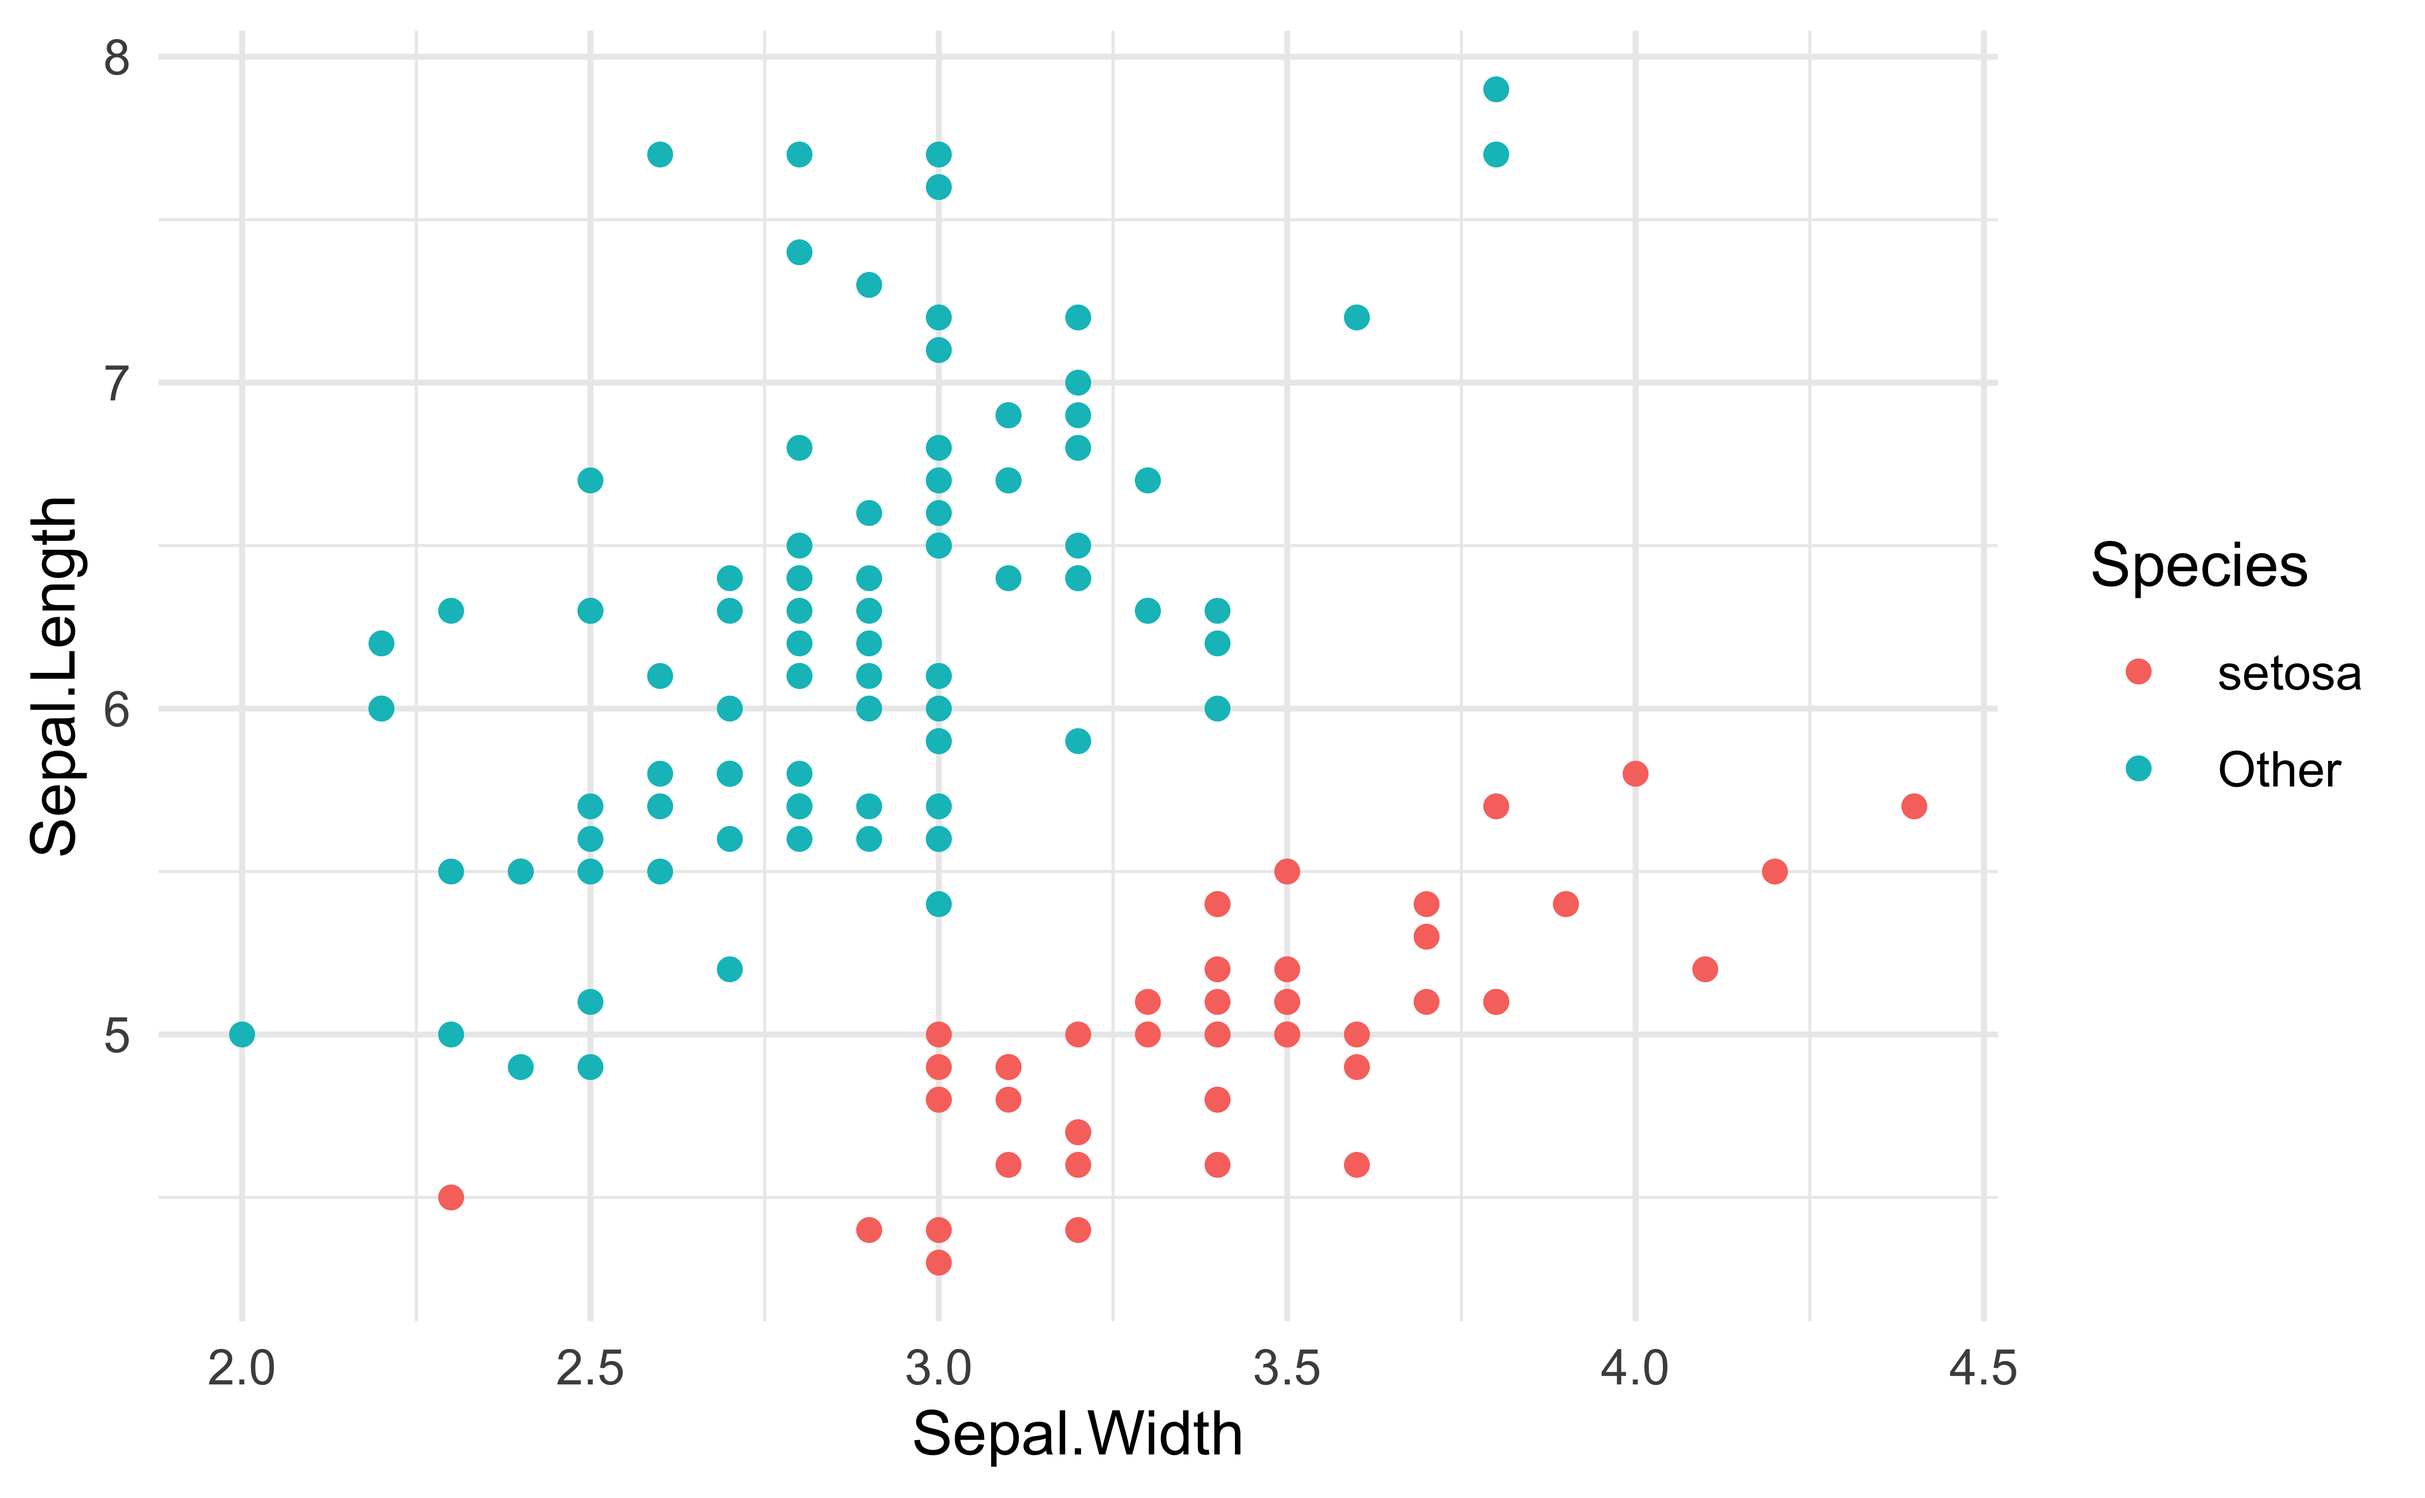
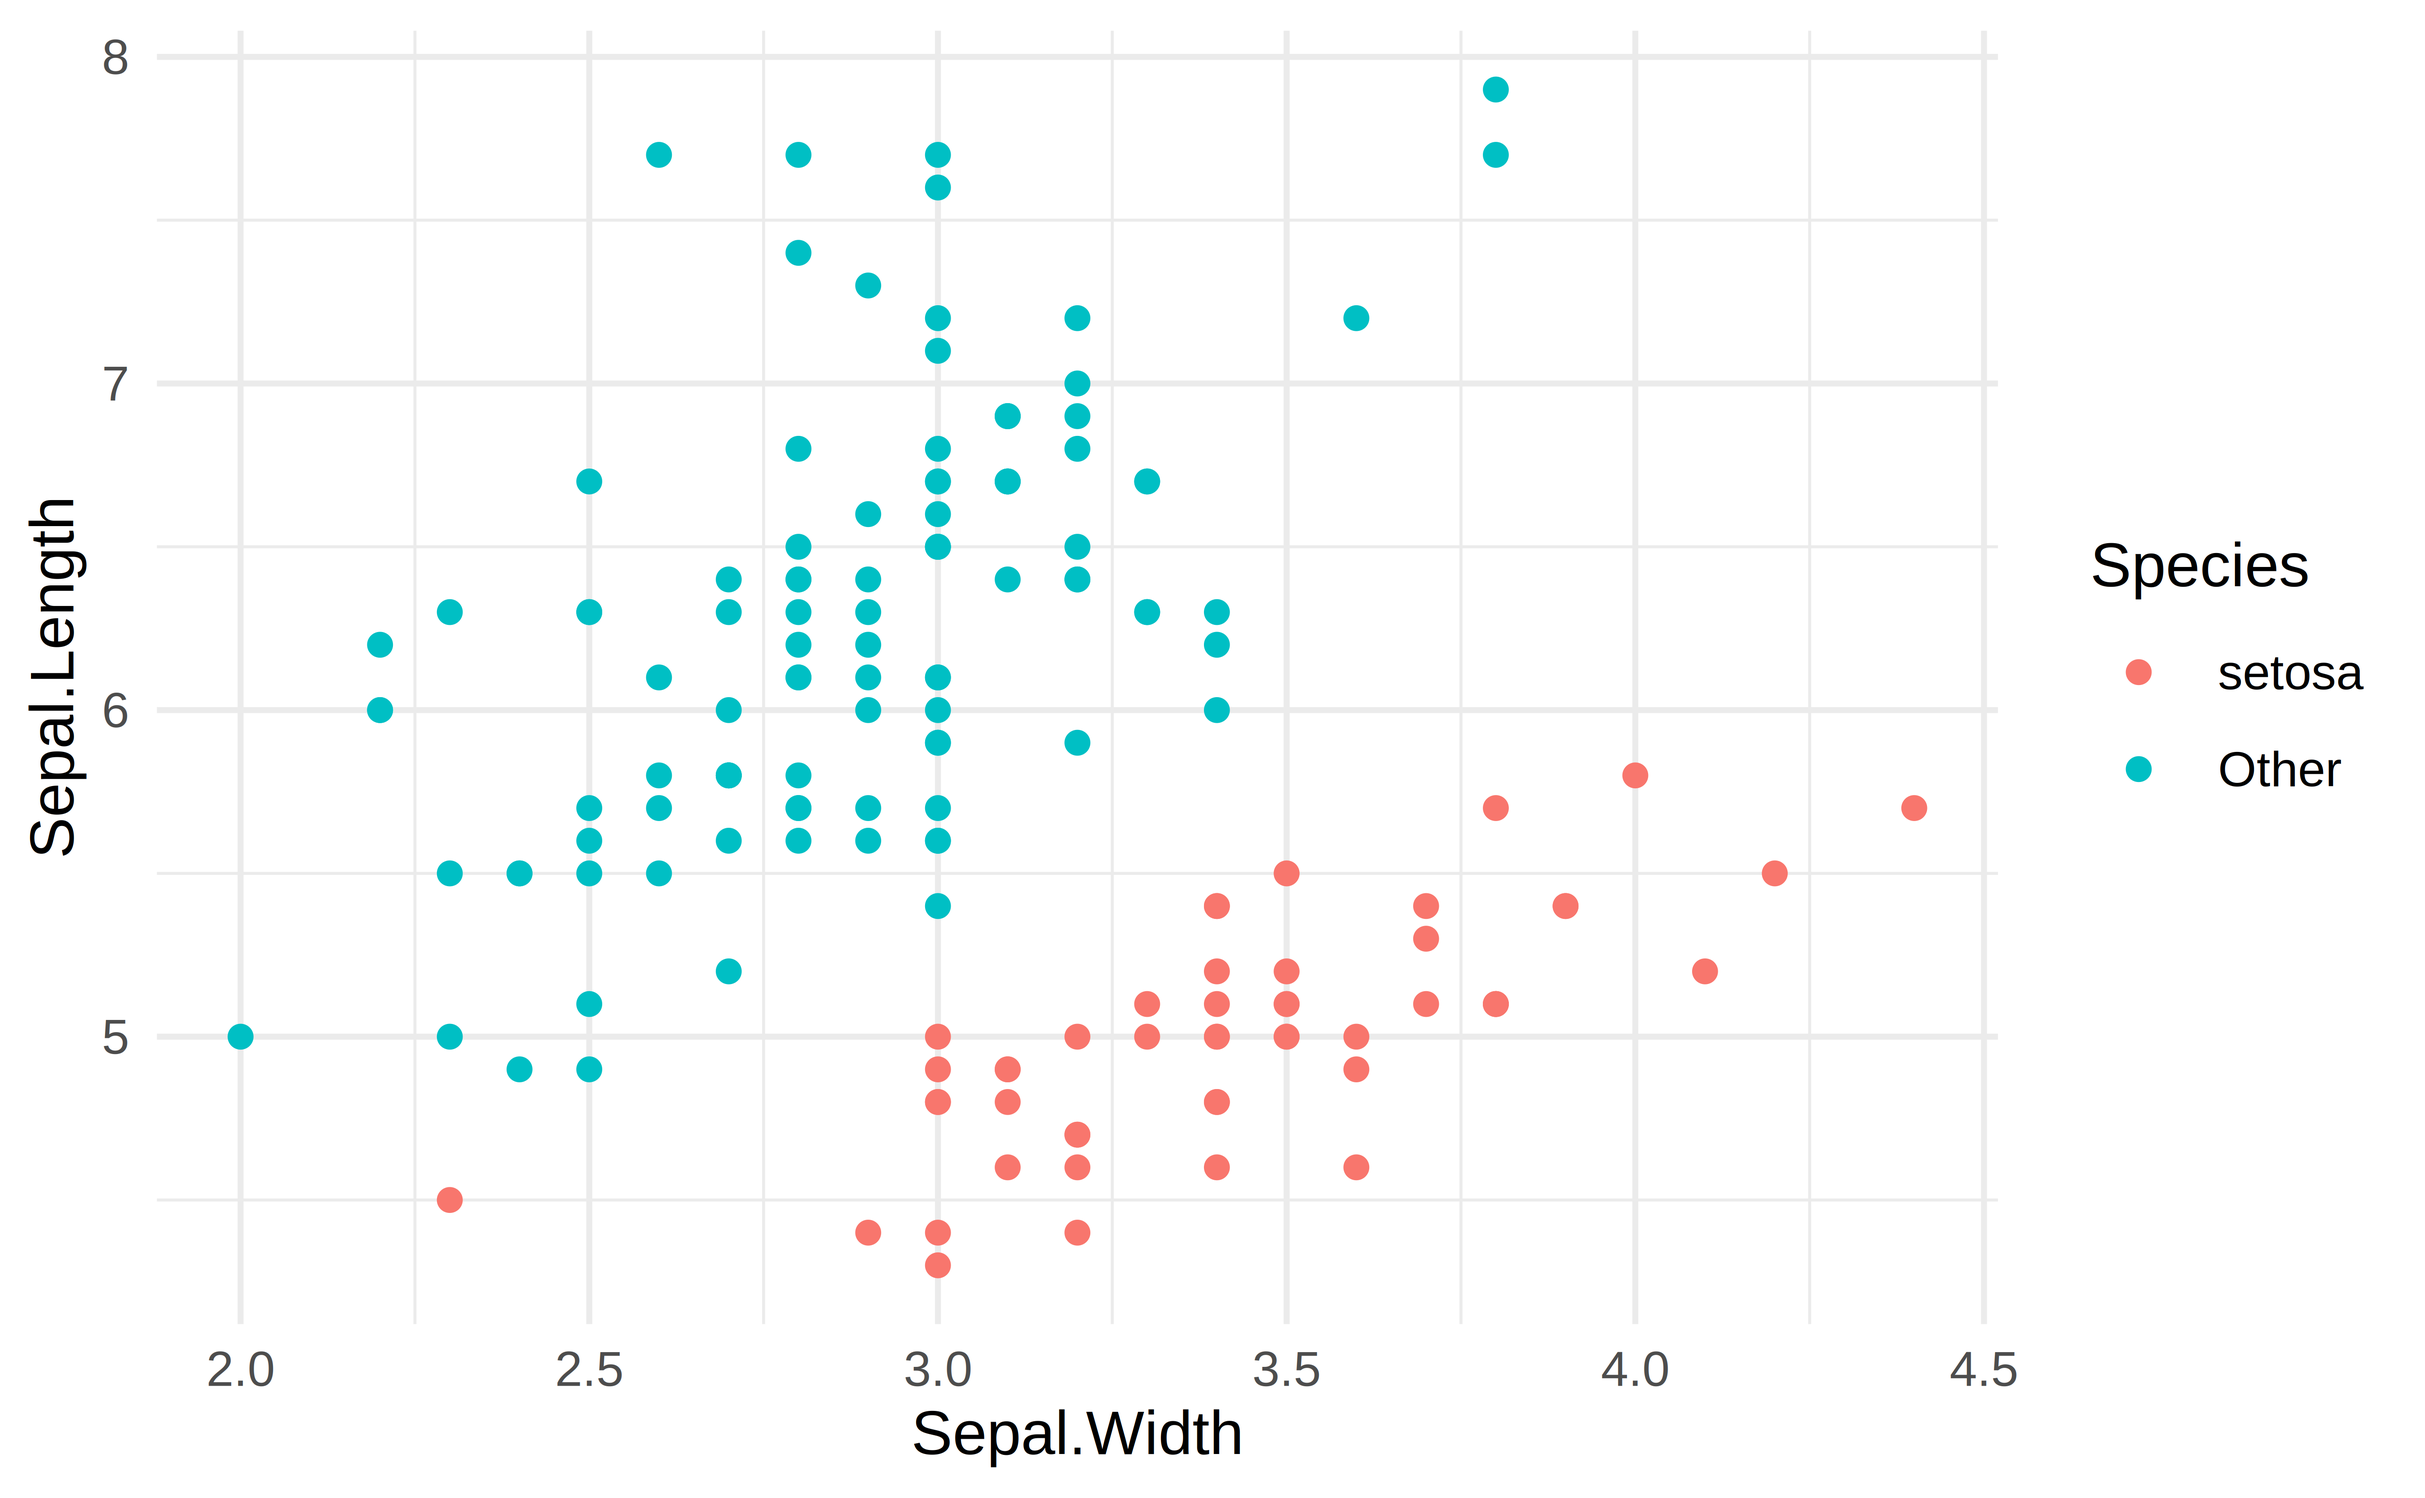
Added ethics

diff --git a/report.html b/report.html
@@ -11,7 +11,7 @@
 
 <meta name="author" content="by Team-Name: Hannah, Hannah, Rianna" />
 
-<meta name="date" content="2026-11-26" />
+<meta name="date" content="2026-11-27" />
 
 <title>Project title</title>
 
@@ -352,7 +352,7 @@ display: none;
 
 <h1 class="title toc-ignore">Project title</h1>
 <h4 class="author">by Team-Name: Hannah, Hannah, Rianna</h4>
-<h4 class="date">2026-11-26</h4>
+<h4 class="date">2026-11-27</h4>
 
 </div>
 
@@ -566,6 +566,15 @@ fit, whereas some houses with more storeys achieve higher prices despite
 having similar floor areas. From this we can conclude that comparisons
 across neighbourhoods suggests that similarly sized houses can achieve
 different prices depending on their location.</p>
+<p>Ethical Considerations</p>
+<p>“There are 5 observations that an instructor may wish to remove from
+the data set before giving it to students (a plot of SALE PRICE versus
+GR LIV AREA will indicate them quickly). Three of them are true outliers
+(Partial Sales that likely don’t represent actual market values) and two
+of them are simply unusual sales (very large houses priced relatively
+appropriately). I would recommend removing any houses with more than
+4000 square feet from the data set (which eliminates these 5 unusual
+observations) before assigning it to students.”</p>
 <p>Final Conclusion</p>
 <p>To conclude, from our extensive analysis across various
 neighbourhoods, we can detrmine that overall quality can be considered
